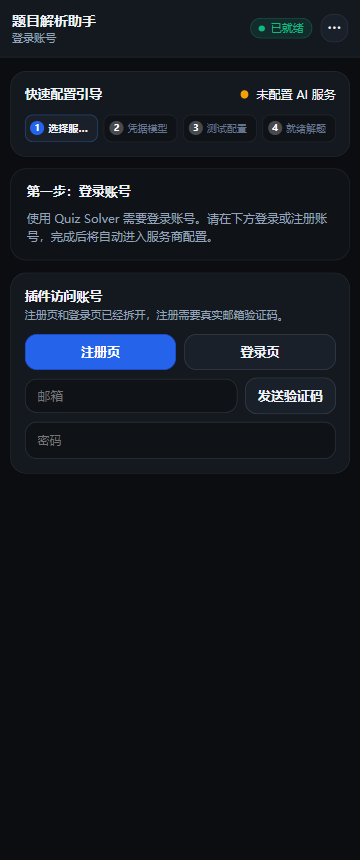
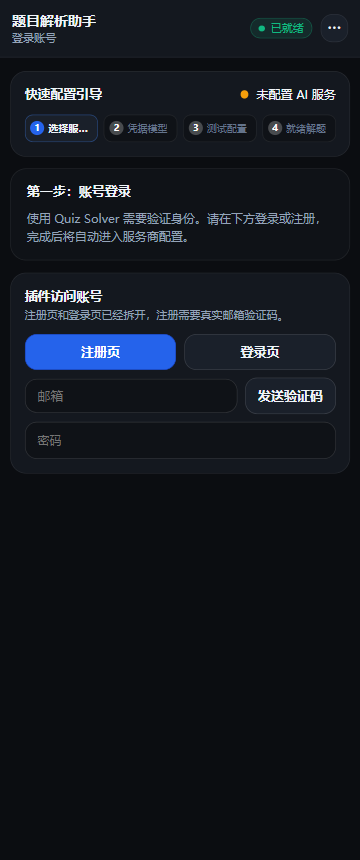
fix(ui-05): disambiguate first-run account signin copy for smoke test strict mode

Changed region(s): [[0.0611, 0.2419, 0.5806, 0.3023], [0.2139, 0.2116, 0.3667, 0.2419], [0.8556, 0.2419, 0.9167, 0.2721]]

diff --git a/src/sidepanel/settingsPanel.tsx b/src/sidepanel/settingsPanel.tsx
@@ -529,13 +529,13 @@ export const SettingsTab: React.FC<SettingsTabProps> = ({
         >
           <div style={{ display: "flex", alignItems: "center", gap: 8 }}>
             <span style={{ fontSize: 13, fontWeight: 700, color: orbitColors.text.primary }}>
-              {isEn ? "Step 1: Sign in to your account" : "第一步：登录账号"}
+              {isEn ? "Step 1: Sign in to your account" : "第一步：账号登录"}
             </span>
           </div>
           <p style={{ margin: 0, fontSize: 12, color: orbitColors.text.secondary, lineHeight: 1.5 }}>
             {isEn
               ? "An account is required to use Quiz Solver and sync settings. Please sign in below to unlock provider setup."
-              : "使用 Quiz Solver 需要登录账号。请在下方登录或注册账号，完成后将自动进入服务商配置。"}
+              : "使用 Quiz Solver 需要验证身份。请在下方登录或注册，完成后将自动进入服务商配置。"}
           </p>
         </section>
         <SettingsAccountSection auth={auth} authText={authText} isEn={isEn} rejectedSessionHint={sessionRejectedHint} />
@@ -589,13 +589,13 @@ export const SettingsTab: React.FC<SettingsTabProps> = ({
           >
             <div style={{ display: "flex", alignItems: "center", gap: 8 }}>
               <span style={{ fontSize: 13, fontWeight: 700, color: orbitColors.text.primary }}>
-                {isEn ? "Step 1: Sign in to your account" : "第一步：登录账号"}
+                {isEn ? "Step 1: Sign in to your account" : "第一步：账号登录"}
               </span>
             </div>
             <p style={{ margin: 0, fontSize: 12, color: orbitColors.text.secondary, lineHeight: 1.5 }}>
               {isEn
                 ? "An account is required to use Quiz Solver and sync settings. Please sign in below to unlock provider setup."
-                : "使用 Quiz Solver 需要登录账号。请在下方登录或注册账号，完成后将自动进入服务商配置。"}
+                : "使用 Quiz Solver 需要验证身份。请在下方登录或注册，完成后将自动进入服务商配置。"}
             </p>
           </section>
         ) : !isCommittedConfigured ? (

diff --git a/src/sidepanel/settingsPanel.e2b1rf01.test.tsx b/src/sidepanel/settingsPanel.e2b1rf01.test.tsx
@@ -134,6 +134,9 @@ describe("E2B2A committed Save-and-Test", () => {
   });
   it("TEST-03 changing provider commits B before B's request", async () => {
     render(<SettingsTab lang="zh" onLanguageChange={vi.fn()} initialView="catalog" />);
+    await waitFor(() =>
+      expect(screen.getByTestId("settings-panel")).toHaveAttribute("data-ready", "true"),
+    );
     fireEvent.click(await screen.findByRole("button", { name: /^OpenAI/ }));
     fireEvent.change(await screen.findByPlaceholderText(getProvider("openai").keyPlaceholder), { target: { value: newKey } });
     const fetchMock = vi.spyOn(globalThis, "fetch").mockImplementation(async (url, init) => {

diff --git a/src/sidepanel/settingsPanel.ui05.test.tsx b/src/sidepanel/settingsPanel.ui05.test.tsx
@@ -1191,7 +1191,7 @@ describe("UI-05 Review Fix 02: Explicit Regressions (Section 10)", () => {
     render(<SettingsTab lang="zh" onLanguageChange={vi.fn()} authOnly={true} />);
 
     expect(screen.getByTestId("first-run-signin-section")).toBeInTheDocument();
-    expect(screen.getByText("第一步：登录账号")).toBeInTheDocument();
+    expect(screen.getByText("第一步：账号登录")).toBeInTheDocument();
     expect(screen.getByText("插件访问账号")).toBeInTheDocument();
     expect(screen.getByTestId("settings-account-section")).toBeInTheDocument();
     mockAuth.isAuthenticated = true;
